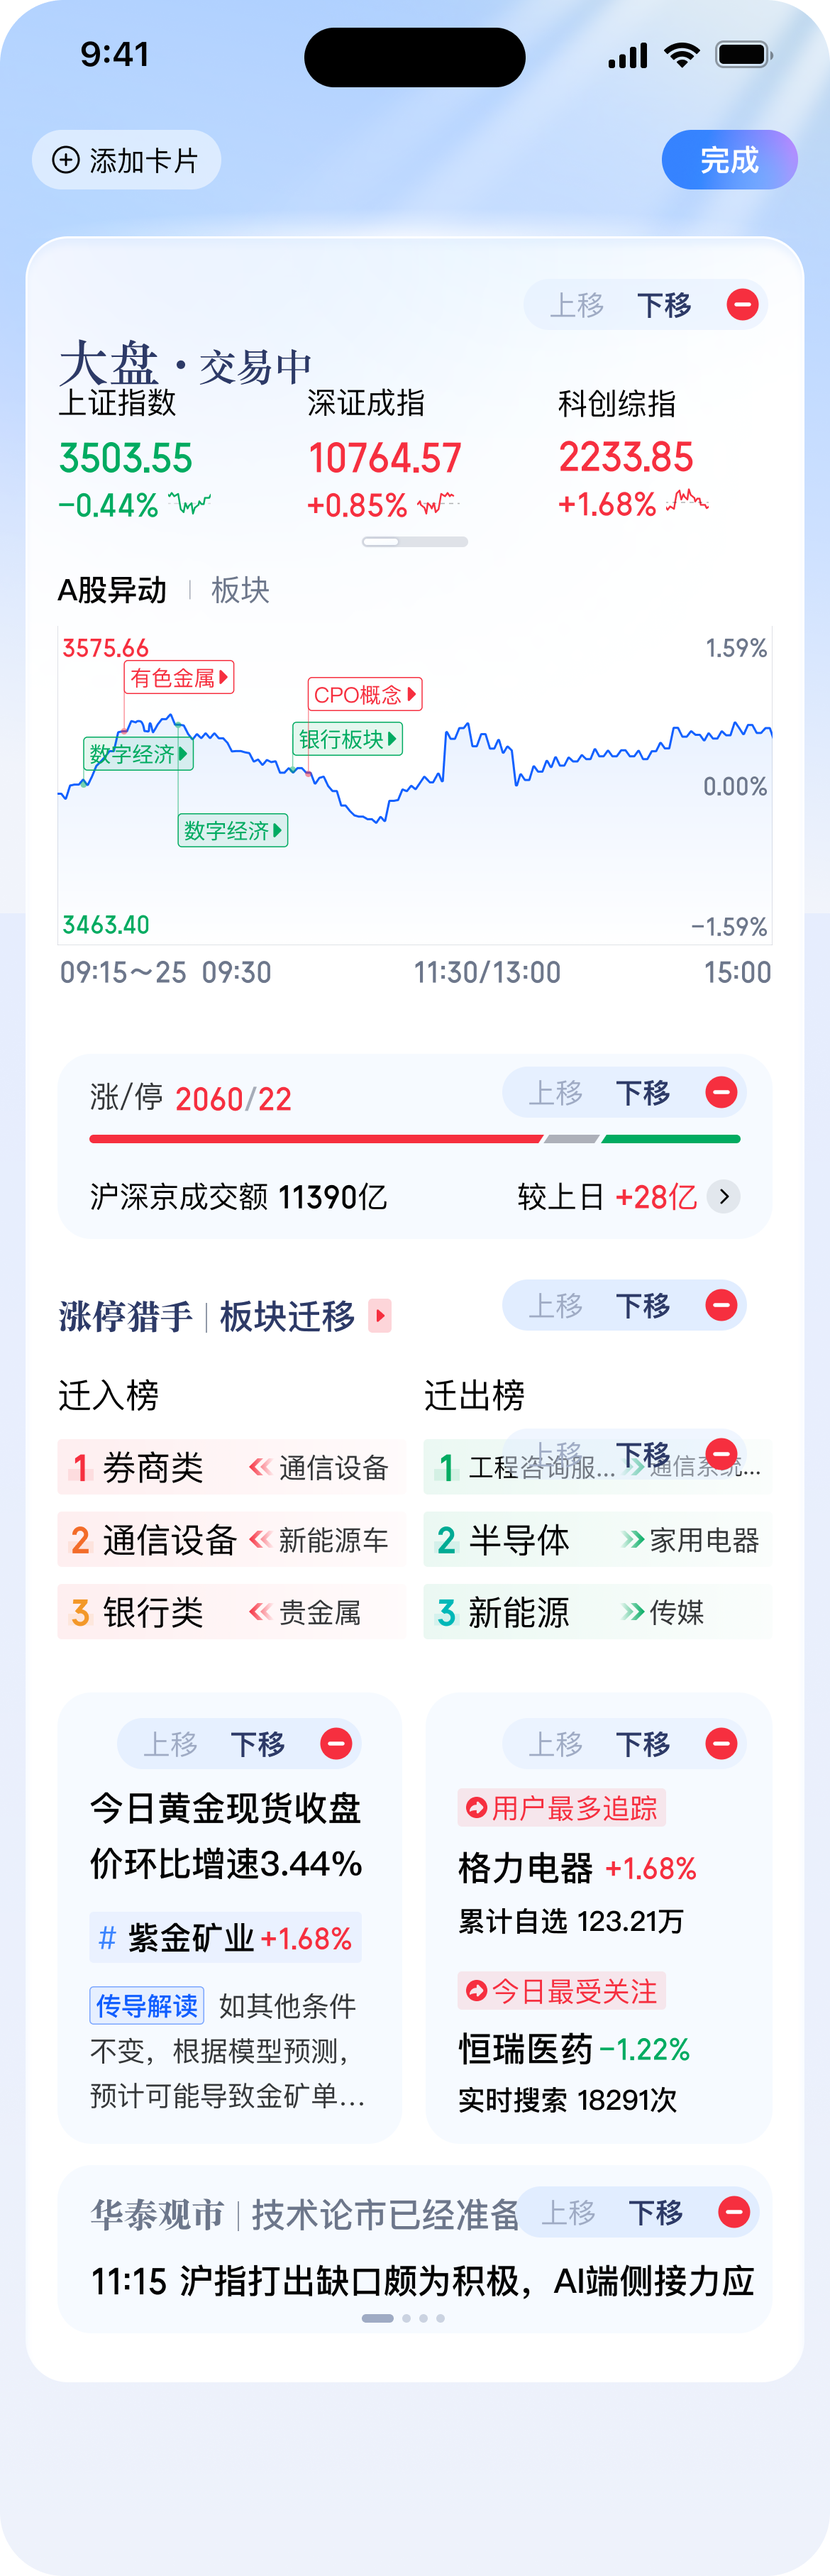
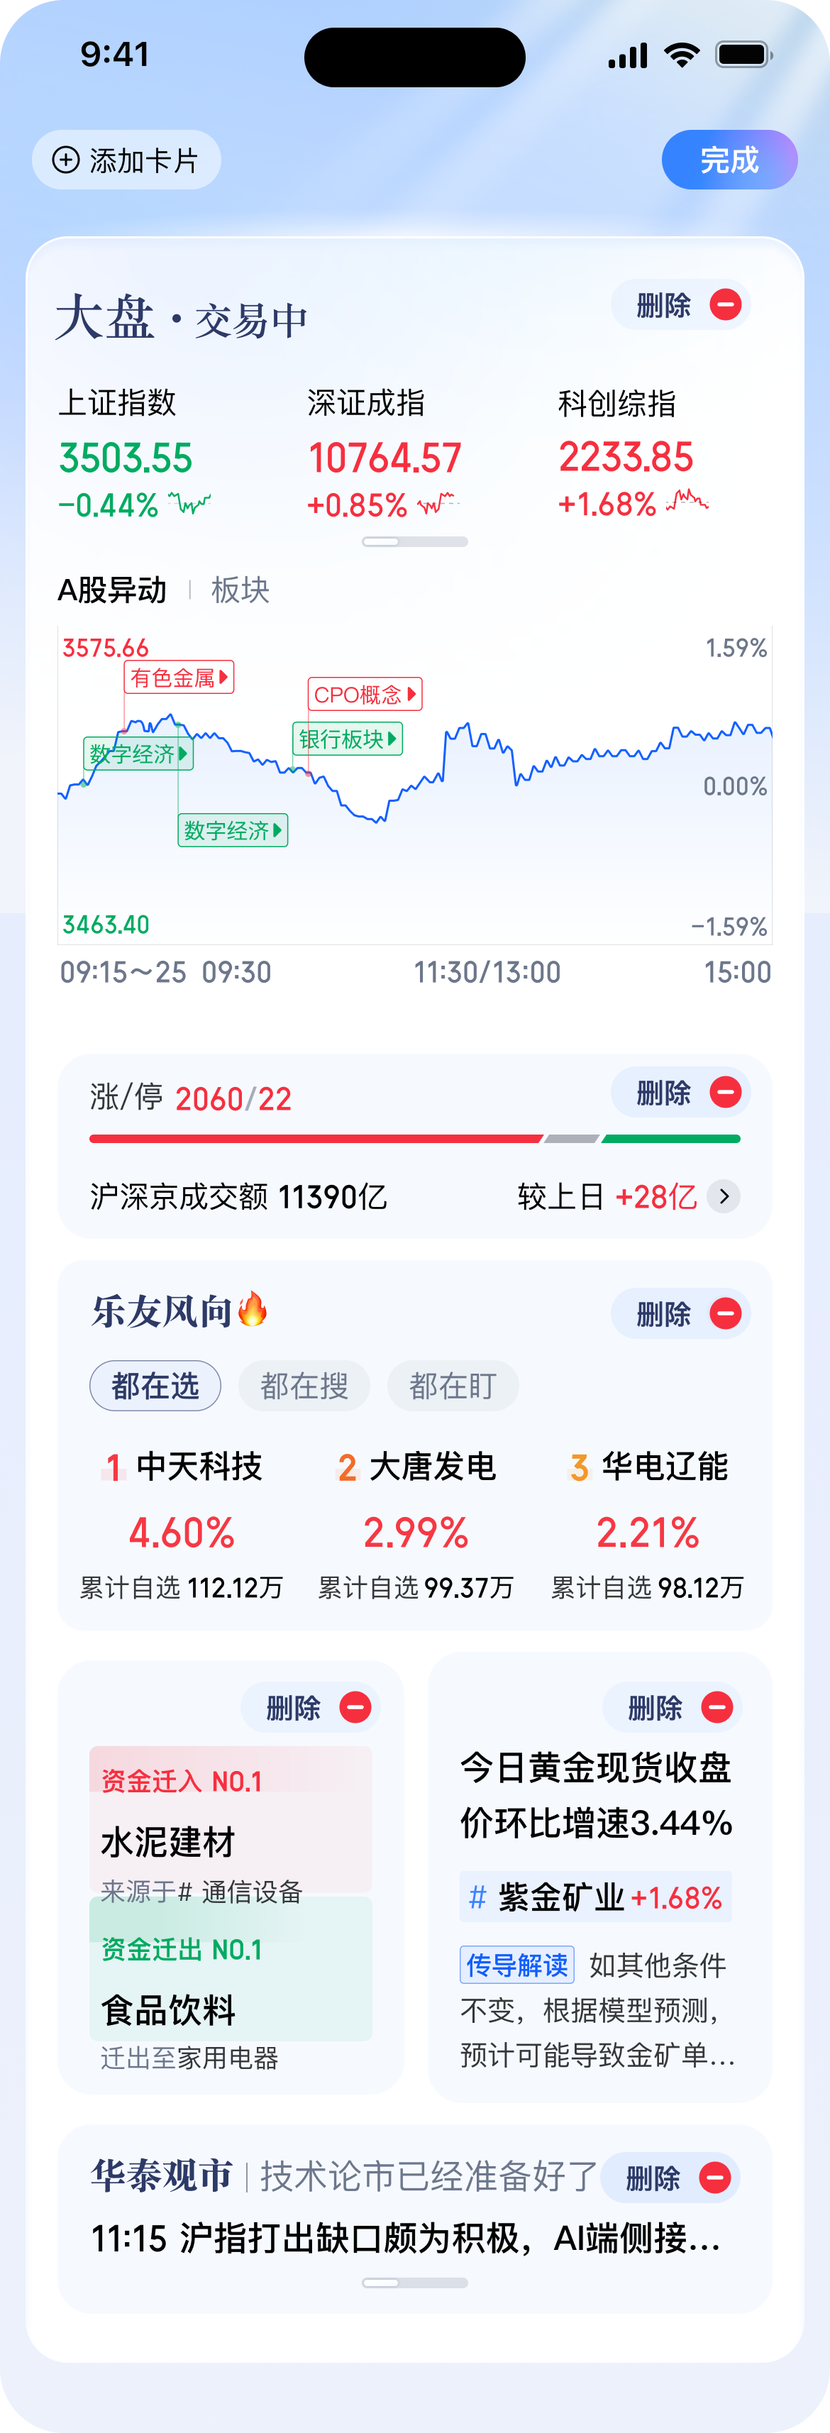
feat(config-modules): add configuration modules and guide copy functionality
- Introduced a new configuration module section in index.html for enhanced user interaction.
- Updated script.js to manage the rendering of configuration modules and guide copy text.
- Enhanced styles in styles.css to support the new configuration module layout and animations.
- Incremented demo version to 2.1 to reflect the new features.

diff --git a/script.js b/script.js
@@ -18,10 +18,19 @@ const screens = {
   market: {
     src: "./assets/screens/market-long.png",
     scrollHotspots: [
+      { label: "长按编辑大盘", x: 68, y: 10.2, w: 23, h: 3.6, target: "configPage", dismissGuide: "market-edit-entry" },
       { label: "查看我的账户", x: 50, y: 3.8, w: 45, h: 5.8, target: "account" }
     ],
     fixedHotspots: [],
-    guide: { id: "market-watch-nav", layer: "fixed", x: 20, y: 0, w: 20, h: 100 }
+    guide: {
+      id: "market-edit-entry",
+      layer: "scroll",
+      x: 68,
+      y: 10.2,
+      w: 23,
+      h: 3.6,
+      copy: "长按进行编辑页面"
+    }
   },
   customize: {
     src: "./assets/screens/customize-cards.png",
@@ -35,7 +44,7 @@ const screens = {
     src: "./assets/screens/config-page.png",
     scrollHotspots: [
       { label: "添加卡片", x: 3.5, y: 5.5, w: 23, h: 5, target: "customize" },
-      { label: "关闭定制页面", x: 78, y: 5.5, w: 18, h: 5, target: "market", dismissGuide: "market-generated-customize" }
+      { label: "关闭定制页面", x: 78, y: 5.5, w: 18, h: 5, target: "market", dismissGuide: "market-edit-entry" }
     ],
     fixedHotspots: [],
     guide: null
@@ -244,17 +253,19 @@ const navItems = {
   }
 };
 
-const demoVersion = "2.0";
+const demoVersion = "2.1";
 const assetVersion = `v${demoVersion}`;
 document.documentElement.dataset.demoVersion = demoVersion;
 const image = document.querySelector("#screenImage");
 const kycScreen = document.querySelector("#kycScreen");
 const confirmCard = document.querySelector("#confirmCard");
 const hotspotsLayer = document.querySelector("#hotspots");
+const configModules = document.querySelector("#configModules");
 const fixedHotspotsLayer = document.querySelector("#fixedHotspots");
 const scrollArea = document.querySelector("#scrollArea");
 const bottomBar = document.querySelector("#bottomBar");
 const guideLayer = document.querySelector("#guideLayer");
+const guideCopy = document.querySelector("#guideCopy");
 const moreMenu = document.querySelector("#moreMenu");
 const moreModal = document.querySelector("#moreModal");
 const screenStage = document.querySelector("#screenStage");
@@ -304,6 +315,15 @@ const dismissedGuideIds = new Set();
 let selectedImages = [];
 let pendingImages = [];
 
+const configModuleRects = [
+  { label: "指数行情", x: 3.2, y: 9.7, w: 93.6, h: 32.8 },
+  { label: "涨跌成交", x: 6.8, y: 42.7, w: 86.4, h: 8.0 },
+  { label: "乐友风向", x: 6.8, y: 52.4, w: 86.4, h: 15.0 },
+  { label: "资金迁移", x: 6.8, y: 68.3, w: 41.8, h: 18.4 },
+  { label: "黄金收盘", x: 51.6, y: 68.3, w: 41.8, h: 18.4 },
+  { label: "华泰观市", x: 6.8, y: 87.4, w: 86.4, h: 8.2 }
+];
+
 function makeHotspot(spot, className) {
   const node = document.createElement("button");
   node.type = "button";
@@ -336,6 +356,7 @@ function makeHotspot(spot, className) {
 function renderHotspots(screen) {
   hotspotsLayer.innerHTML = "";
   fixedHotspotsLayer.innerHTML = "";
+  renderConfigModules();
 
   screen.scrollHotspots.forEach((spot) => {
     hotspotsLayer.appendChild(makeHotspot(spot, "hotspot"));
@@ -355,6 +376,7 @@ function syncBottomBarVisibility() {
 
 function syncHotspotLayerHeight() {
   hotspotsLayer.style.height = `${image.offsetHeight}px`;
+  syncConfigModuleBackgrounds();
 }
 
 function runScreenSlide(className) {
@@ -393,6 +415,9 @@ function prepareGuide(guideId) {
   activeGuideId = guideId || null;
   const hidden = !guideId || dismissedGuideIds.has(guideId);
   guideLayer.hidden = hidden;
+  if (hidden) {
+    guideCopy.textContent = "";
+  }
   return !hidden;
 }
 
@@ -408,6 +433,7 @@ function setGuide(guide, handSide = "right") {
   if (!guide) {
     activeGuideId = null;
     guideLayer.hidden = true;
+    guideCopy.textContent = "";
     return;
   }
   if (!prepareGuide(guide.id)) return;
@@ -427,12 +453,14 @@ function setGuide(guide, handSide = "right") {
   const h = (guide.h / 100) * basis.height;
 
   applyGuideBounds(x, y, w, h, handSide);
+  guideCopy.textContent = guide.copy || "";
 }
 
 function setGuideToElement(element, guideId, offsetY = 0, handSide = "right") {
   if (!element) {
     activeGuideId = null;
     guideLayer.hidden = true;
+    guideCopy.textContent = "";
     return;
   }
   if (!prepareGuide(guideId)) return;
@@ -445,6 +473,40 @@ function setGuideToElement(element, guideId, offsetY = 0, handSide = "right") {
   const h = targetRect.height;
 
   applyGuideBounds(x, y, w, h, handSide);
+  guideCopy.textContent = "";
+}
+
+function renderConfigModules() {
+  configModules.innerHTML = "";
+  const editing = activeKey === "configPage";
+  configModules.classList.toggle("is-active", editing);
+  if (!editing) return;
+
+  configModuleRects.forEach((rect, index) => {
+    const node = document.createElement("div");
+    node.className = "config-module";
+    node.setAttribute("aria-label", rect.label);
+    node.style.left = `${rect.x}%`;
+    node.style.top = `${rect.y}%`;
+    node.style.width = `${rect.w}%`;
+    node.style.height = `${rect.h}%`;
+    node.style.animationDelay = `${index * -0.13}s`;
+    configModules.appendChild(node);
+  });
+
+  requestAnimationFrame(syncConfigModuleBackgrounds);
+}
+
+function syncConfigModuleBackgrounds() {
+  if (activeKey !== "configPage" || !configModules.classList.contains("is-active")) return;
+  const width = image.offsetWidth;
+  const height = image.offsetHeight;
+  configModules.querySelectorAll(".config-module").forEach((node, index) => {
+    const rect = configModuleRects[index];
+    node.style.backgroundImage = `url("${screens.configPage.src}?v=${assetVersion}")`;
+    node.style.backgroundSize = `${width}px ${height}px`;
+    node.style.backgroundPosition = `-${(rect.x / 100) * width}px -${(rect.y / 100) * height}px`;
+  });
 }
 
 function setMoreModalGuide() {
@@ -502,7 +564,7 @@ function setActiveScreenGuide(screen = screens[activeKey]) {
     return;
   }
   if (activeKey === "market") {
-    setGuideToElement(document.querySelector('.nav-item[data-nav="watch"]'), "market-watch-nav");
+    setGuide(screen?.guide);
     return;
   }
   if (activeKey === "report") {
@@ -647,7 +709,7 @@ kycScreen.querySelectorAll(".kyc-card").forEach((card) => {
 });
 
 confirmCard.querySelector(".btn-customize").addEventListener("click", () => {
-  showScreen("configPage");
+  showScreen("customize");
 });
 
 confirmCard.querySelector(".btn-recommend").addEventListener("click", () => {

diff --git a/styles.css b/styles.css
@@ -509,6 +509,36 @@ body {
   user-select: none;
 }
 
+.config-modules {
+  position: absolute;
+  z-index: 5;
+  inset: 0;
+  pointer-events: none;
+  display: none;
+}
+
+.config-modules.is-active {
+  display: block;
+}
+
+.config-module {
+  position: absolute;
+  overflow: hidden;
+  border-radius: 18px;
+  background-repeat: no-repeat;
+  box-shadow:
+    0 12px 22px rgba(20, 38, 72, 0.08),
+    0 0 0 1px rgba(255, 255, 255, 0.72);
+  transform-origin: 50% 45%;
+  animation: configJiggle 0.24s ease-in-out infinite alternate;
+}
+
+.config-module:nth-child(2),
+.config-module:nth-child(4),
+.config-module:nth-child(6) {
+  animation-name: configJiggleReverse;
+}
+
 .screen-stage.is-sliding-in-from-left {
   animation: screenSlideInFromLeft 0.34s cubic-bezier(0.22, 1, 0.36, 1) forwards;
 }
@@ -722,6 +752,38 @@ body {
     0 0 0 2px rgba(58, 112, 255, 0.7),
     0 0 0 8px rgba(58, 112, 255, 0.12);
   animation: guidePulse 1.6s ease-in-out infinite;
+}
+
+.guide-copy {
+  position: absolute;
+  left: min(calc(var(--guide-x, 0) + var(--guide-w, 0) - 154px), calc(100% - 174px));
+  top: max(18px, calc(var(--guide-y, 0) - 46px));
+  min-width: 144px;
+  padding: 8px 12px;
+  border-radius: 16px;
+  background: rgba(22, 34, 58, 0.86);
+  color: #fff;
+  font-size: 14px;
+  line-height: 1.15;
+  font-weight: 600;
+  text-align: center;
+  box-shadow: 0 10px 24px rgba(24, 36, 60, 0.22);
+  backdrop-filter: blur(12px);
+}
+
+.guide-copy:empty {
+  display: none;
+}
+
+.guide-copy::after {
+  content: "";
+  position: absolute;
+  right: 24px;
+  bottom: -6px;
+  width: 12px;
+  height: 12px;
+  background: inherit;
+  transform: rotate(45deg);
 }
 
 .guide-hand {
@@ -2019,6 +2081,26 @@ body {
 
   68% {
     transform: translate(0, 0) rotate(18deg) scale(-0.94, 0.94);
+  }
+}
+
+@keyframes configJiggle {
+  from {
+    transform: rotate(-0.55deg) translate3d(-1px, 0, 0);
+  }
+
+  to {
+    transform: rotate(0.55deg) translate3d(1px, 1px, 0);
+  }
+}
+
+@keyframes configJiggleReverse {
+  from {
+    transform: rotate(0.5deg) translate3d(1px, 0, 0);
+  }
+
+  to {
+    transform: rotate(-0.5deg) translate3d(-1px, 1px, 0);
   }
 }
 

diff --git a/index.html b/index.html
@@ -61,6 +61,7 @@
           <div class="scroll-area" id="scrollArea">
             <div class="screen-stage" id="screenStage">
               <img id="screenImage" alt="AI涨乐页面" draggable="false" />
+              <div class="config-modules" id="configModules" aria-hidden="true"></div>
               <div class="hotspots" id="hotspots"></div>
             </div>
             <div class="confirm-card" id="confirmCard" hidden>
@@ -91,6 +92,7 @@
           </div>
           <div class="guide-layer" id="guideLayer" aria-hidden="true">
             <div class="guide-target"></div>
+            <div class="guide-copy" id="guideCopy"></div>
             <div class="guide-hand">
               <span class="finger"></span>
               <span class="palm"></span>
